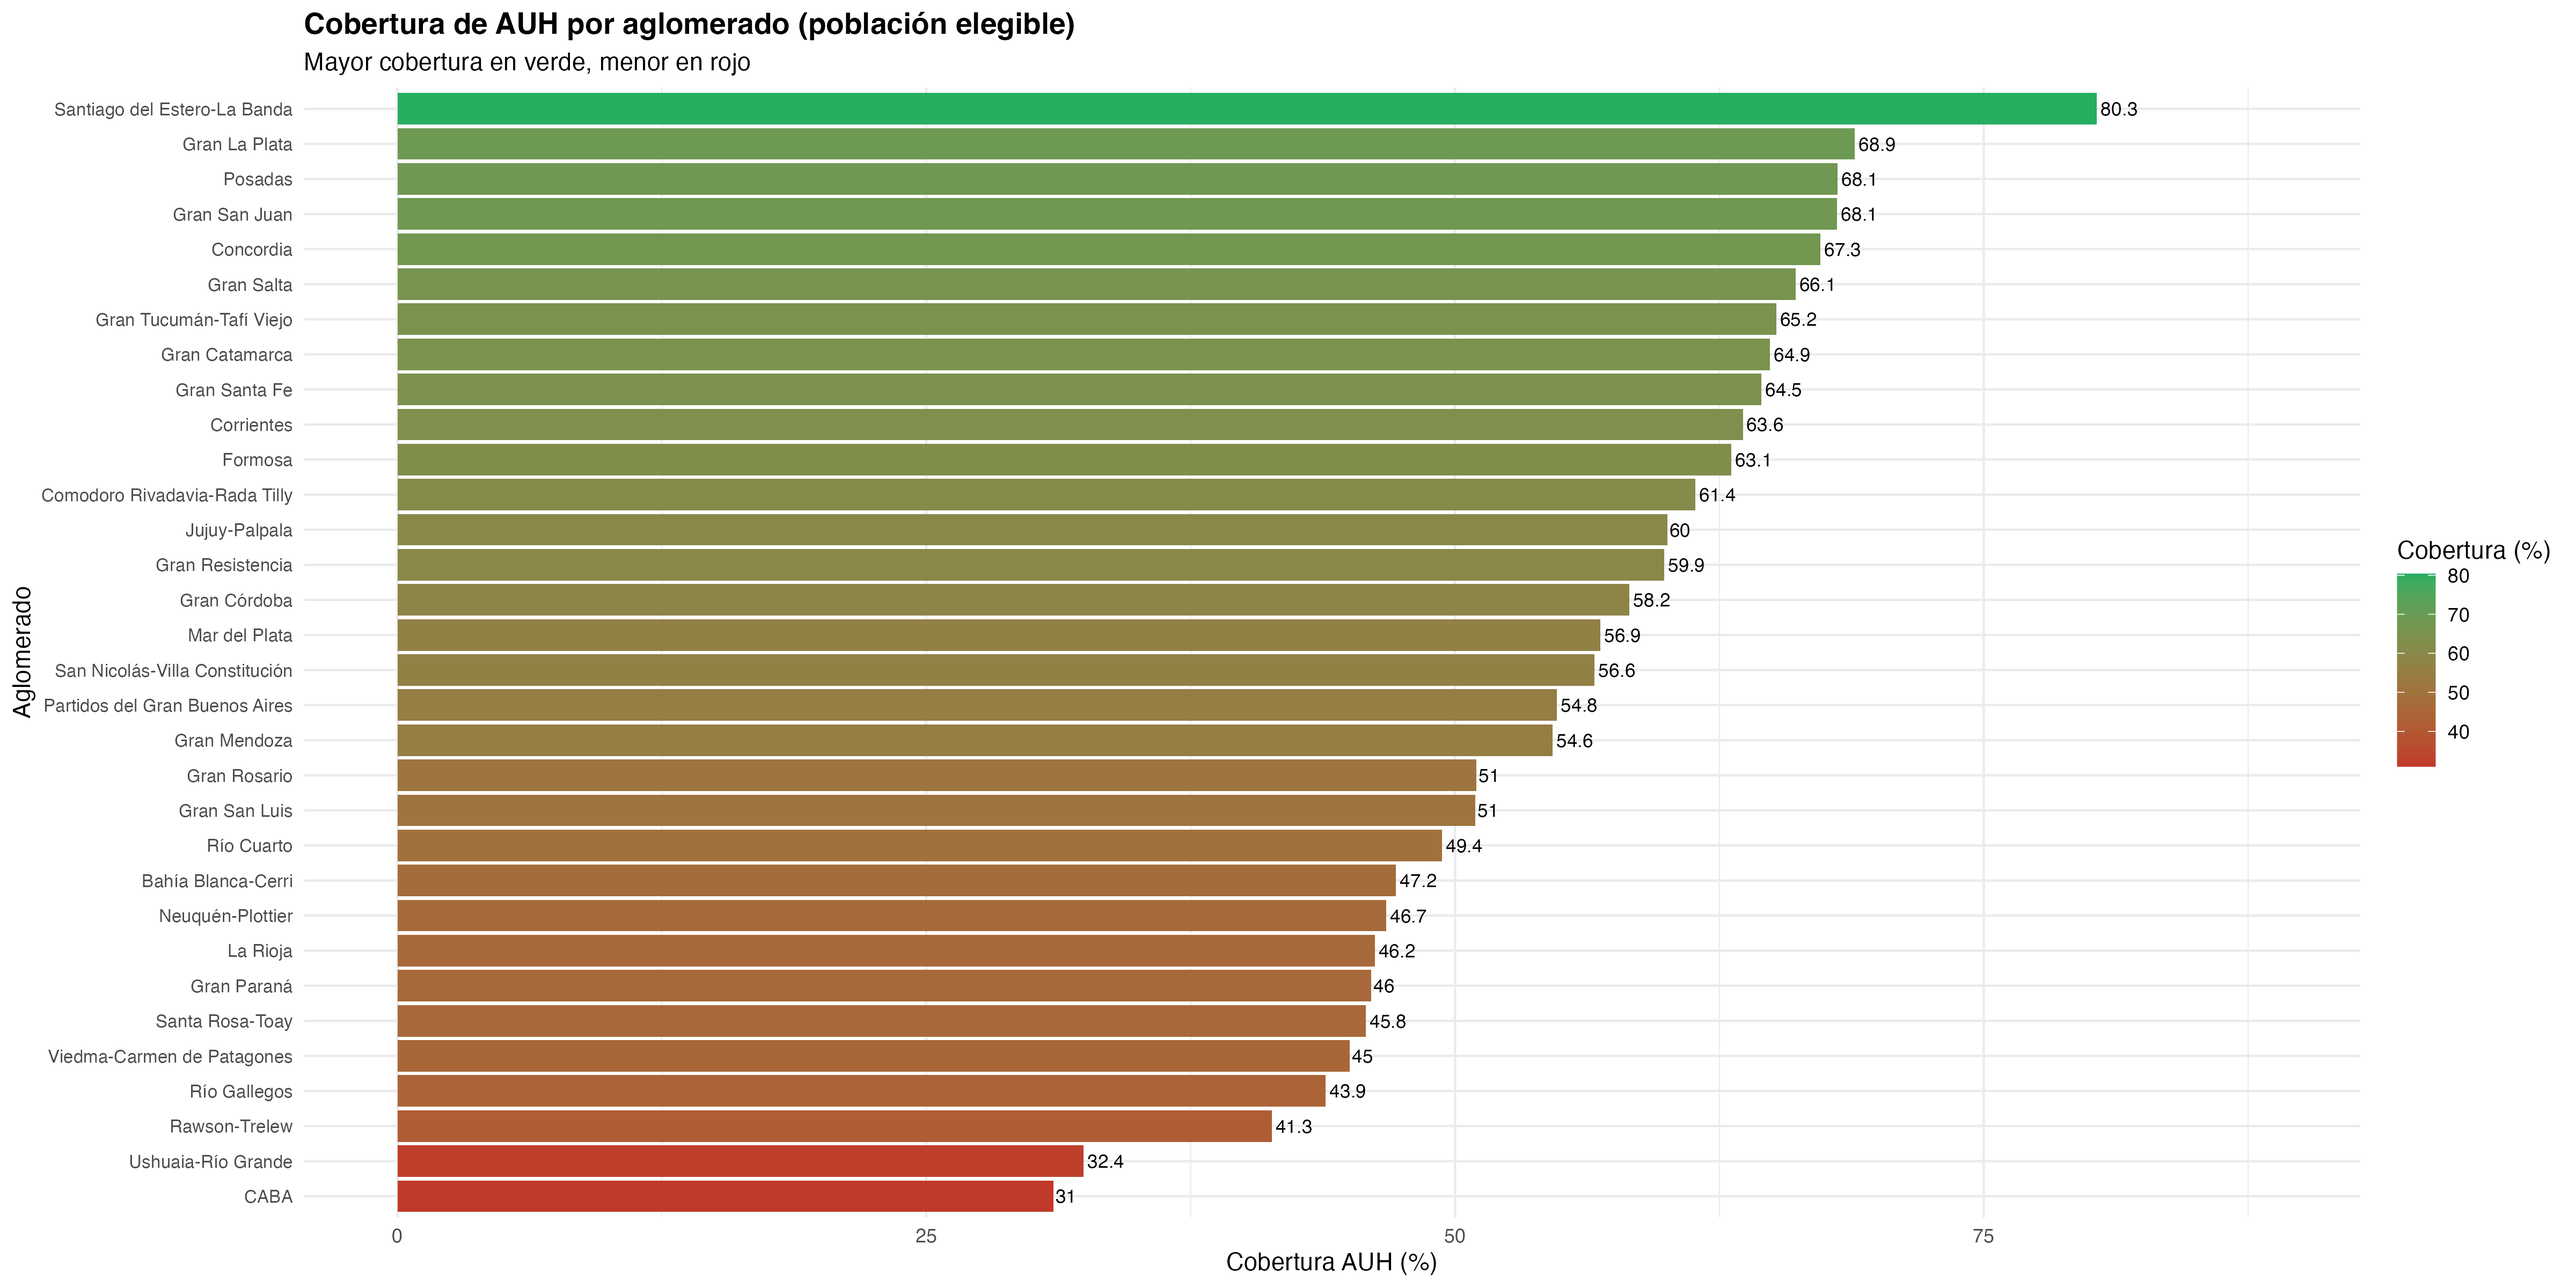
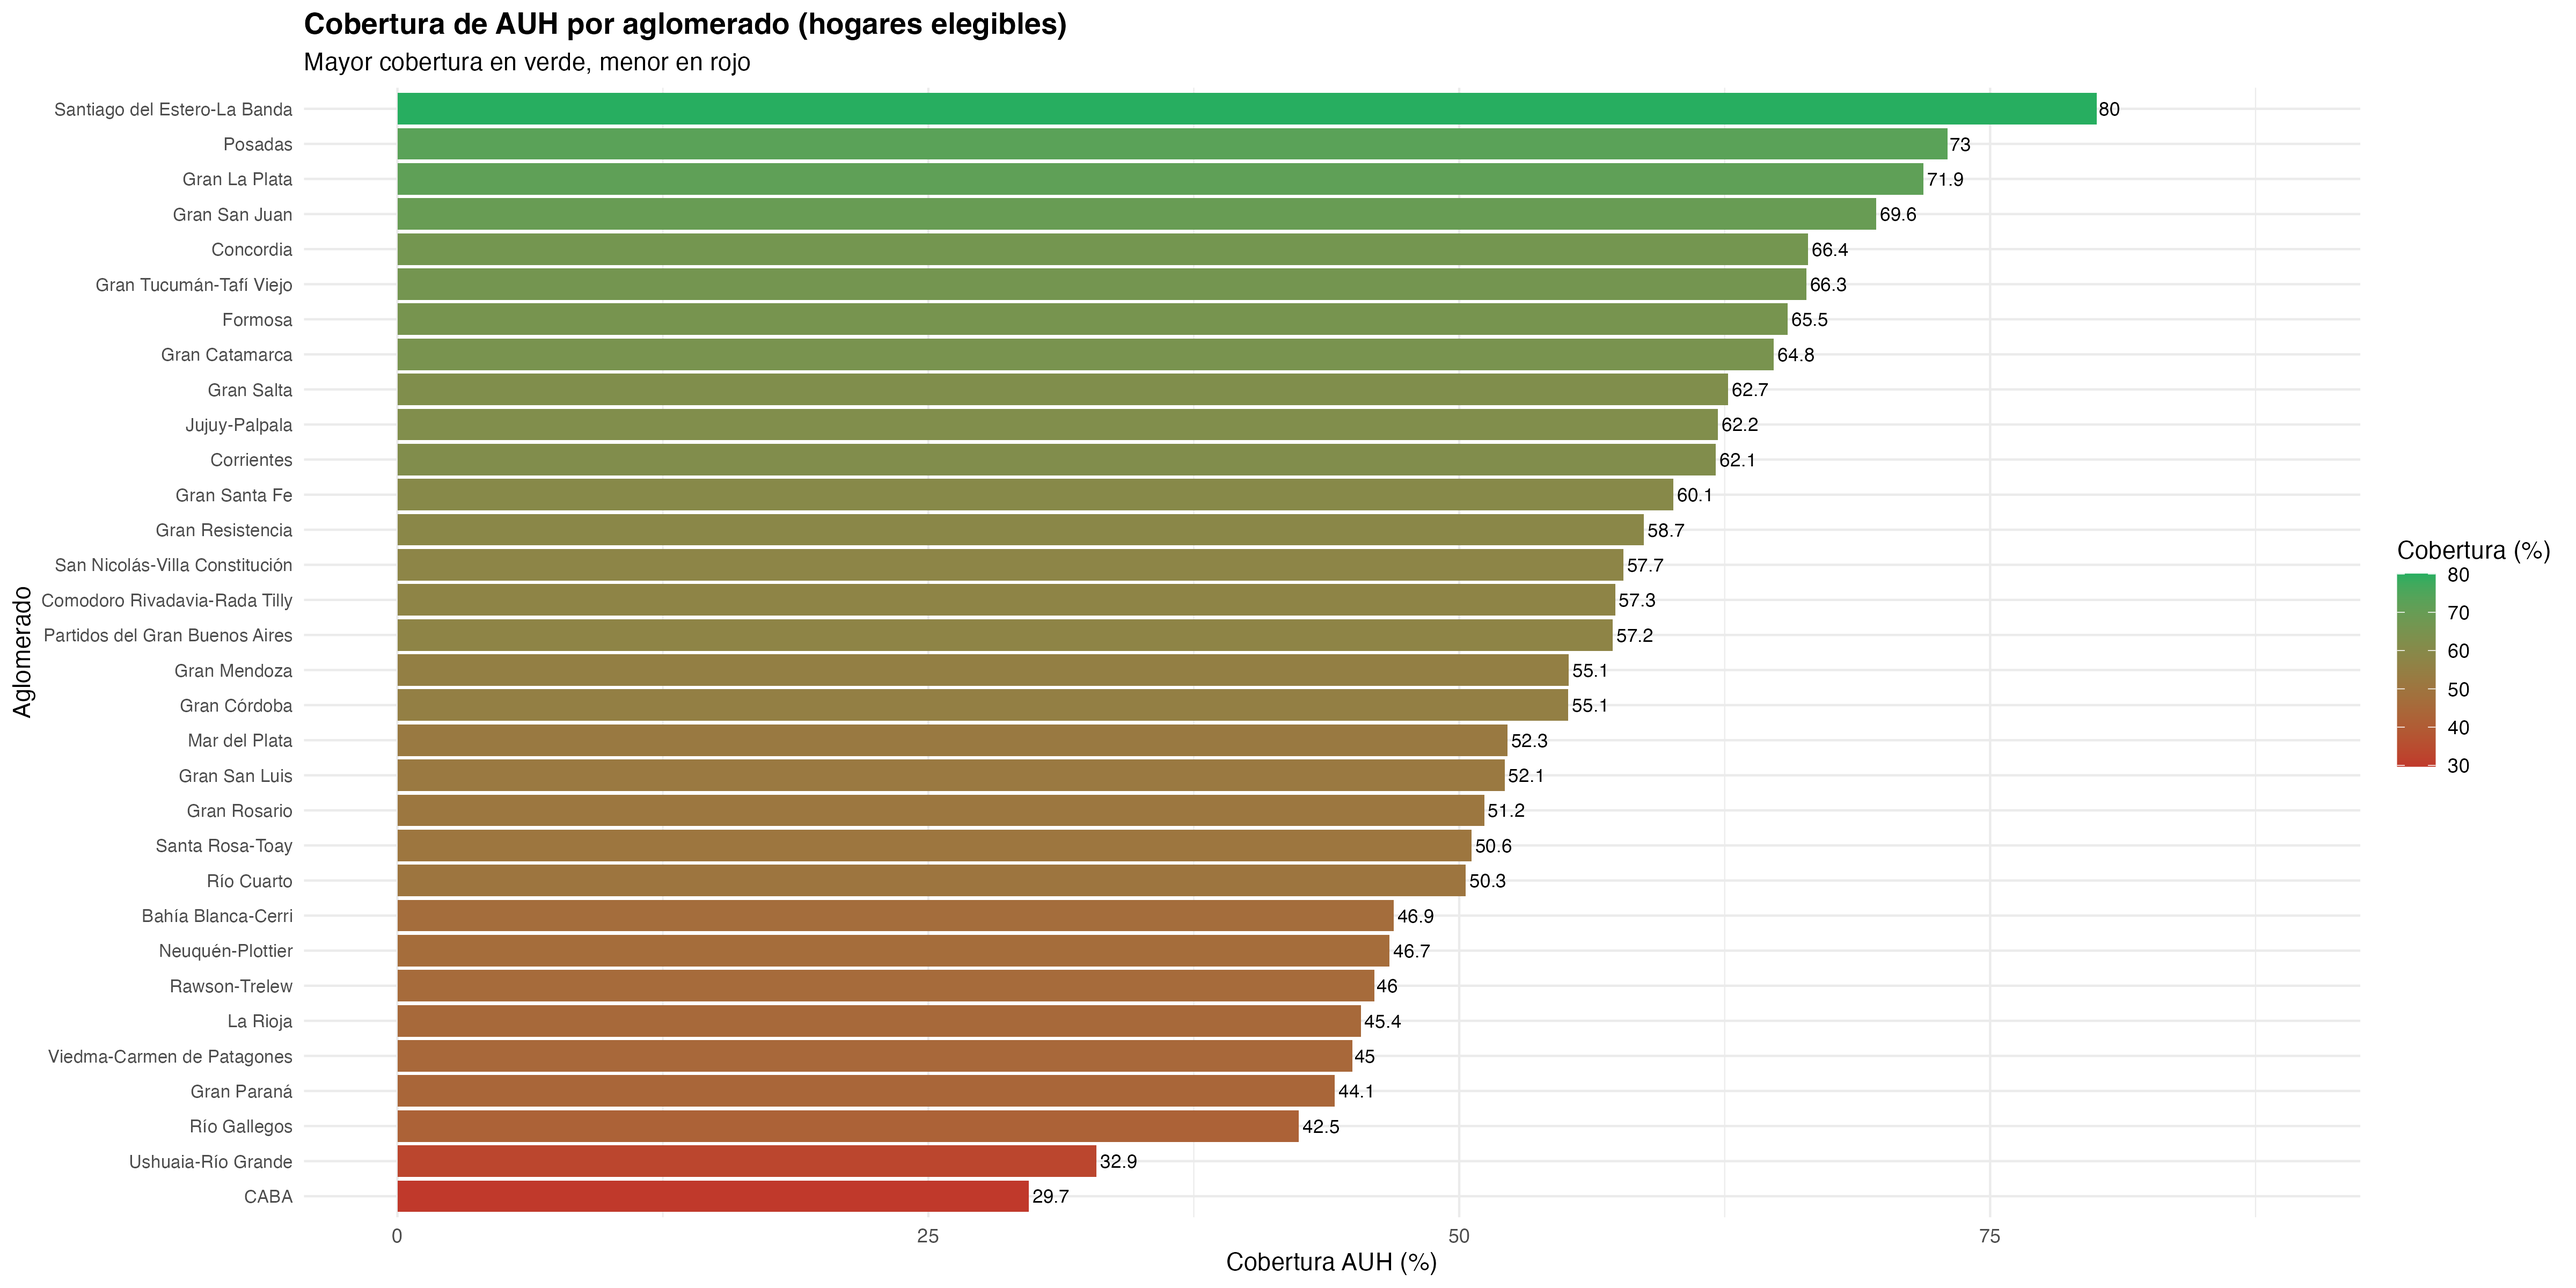
Últimos cambios

diff --git a/tabla_logit.html b/tabla_logit.html
@@ -1,0 +1,133 @@
+
+<table style="text-align:center"><caption><strong>Modelo Logit: Determinantes de la recepción de AUH</strong></caption>
+<tr><td colspan="2" style="border-bottom: 1px solid black"></td></tr><tr><td style="text-align:left"></td><td><em>Dependent variable:</em></td></tr>
+<tr><td></td><td colspan="1" style="border-bottom: 1px solid black"></td></tr>
+<tr><td style="text-align:left"></td><td>Recibe AUH</td></tr>
+<tr><td colspan="2" style="border-bottom: 1px solid black"></td></tr><tr><td style="text-align:left">Sexo del jefe</td><td>0.230<sup>***</sup></td></tr>
+<tr><td style="text-align:left"></td><td>(0.073)</td></tr>
+<tr><td style="text-align:left"></td><td></td></tr>
+<tr><td style="text-align:left">Nivel educativo del jefe</td><td>-0.340<sup>***</sup></td></tr>
+<tr><td style="text-align:left"></td><td>(0.026)</td></tr>
+<tr><td style="text-align:left"></td><td></td></tr>
+<tr><td style="text-align:left">Tamaño del hogar</td><td>-0.136<sup>***</sup></td></tr>
+<tr><td style="text-align:left"></td><td>(0.035)</td></tr>
+<tr><td style="text-align:left"></td><td></td></tr>
+<tr><td style="text-align:left">Cantidad de menores</td><td>0.649<sup>***</sup></td></tr>
+<tr><td style="text-align:left"></td><td>(0.048)</td></tr>
+<tr><td style="text-align:left"></td><td></td></tr>
+<tr><td style="text-align:left">Hogar monoparental</td><td>-0.234<sup>***</sup></td></tr>
+<tr><td style="text-align:left"></td><td>(0.081)</td></tr>
+<tr><td style="text-align:left"></td><td></td></tr>
+<tr><td style="text-align:left">Ingreso per cápita familiar</td><td>-0.00000<sup>***</sup></td></tr>
+<tr><td style="text-align:left"></td><td>(0.00000)</td></tr>
+<tr><td style="text-align:left"></td><td></td></tr>
+<tr><td style="text-align:left">Tenencia de la vivienda</td><td>0.060<sup>***</sup></td></tr>
+<tr><td style="text-align:left"></td><td>(0.017)</td></tr>
+<tr><td style="text-align:left"></td><td></td></tr>
+<tr><td style="text-align:left">Aglomerado: CABA</td><td>-0.313</td></tr>
+<tr><td style="text-align:left"></td><td>(0.235)</td></tr>
+<tr><td style="text-align:left"></td><td></td></tr>
+<tr><td style="text-align:left">Aglomerado: Comodoro Rivadavia-Rada Tilly</td><td>-0.864<sup>***</sup></td></tr>
+<tr><td style="text-align:left"></td><td>(0.255)</td></tr>
+<tr><td style="text-align:left"></td><td></td></tr>
+<tr><td style="text-align:left">Aglomerado: Concordia</td><td>0.186</td></tr>
+<tr><td style="text-align:left"></td><td>(0.257)</td></tr>
+<tr><td style="text-align:left"></td><td></td></tr>
+<tr><td style="text-align:left">Aglomerado: Corrientes</td><td>0.334<sup>**</sup></td></tr>
+<tr><td style="text-align:left"></td><td>(0.162)</td></tr>
+<tr><td style="text-align:left"></td><td></td></tr>
+<tr><td style="text-align:left">Aglomerado: Formosa</td><td>0.446<sup>**</sup></td></tr>
+<tr><td style="text-align:left"></td><td>(0.205)</td></tr>
+<tr><td style="text-align:left"></td><td></td></tr>
+<tr><td style="text-align:left">Aglomerado: Gran Catamarca</td><td>0.347<sup>*</sup></td></tr>
+<tr><td style="text-align:left"></td><td>(0.210)</td></tr>
+<tr><td style="text-align:left"></td><td></td></tr>
+<tr><td style="text-align:left">Aglomerado: Gran Córdoba</td><td>0.401<sup>**</sup></td></tr>
+<tr><td style="text-align:left"></td><td>(0.186)</td></tr>
+<tr><td style="text-align:left"></td><td></td></tr>
+<tr><td style="text-align:left">Aglomerado: Gran La Plata</td><td>0.014</td></tr>
+<tr><td style="text-align:left"></td><td>(0.151)</td></tr>
+<tr><td style="text-align:left"></td><td></td></tr>
+<tr><td style="text-align:left">Aglomerado: Gran Mendoza</td><td>0.596<sup>***</sup></td></tr>
+<tr><td style="text-align:left"></td><td>(0.218)</td></tr>
+<tr><td style="text-align:left"></td><td></td></tr>
+<tr><td style="text-align:left">Aglomerado: Gran Paraná</td><td>-0.017</td></tr>
+<tr><td style="text-align:left"></td><td>(0.154)</td></tr>
+<tr><td style="text-align:left"></td><td></td></tr>
+<tr><td style="text-align:left">Aglomerado: Gran Resistencia</td><td>-0.456<sup>**</sup></td></tr>
+<tr><td style="text-align:left"></td><td>(0.196)</td></tr>
+<tr><td style="text-align:left"></td><td></td></tr>
+<tr><td style="text-align:left">Aglomerado: Gran Rosario</td><td>0.021</td></tr>
+<tr><td style="text-align:left"></td><td>(0.188)</td></tr>
+<tr><td style="text-align:left"></td><td></td></tr>
+<tr><td style="text-align:left">Aglomerado: Gran Salta</td><td>-0.174</td></tr>
+<tr><td style="text-align:left"></td><td>(0.163)</td></tr>
+<tr><td style="text-align:left"></td><td></td></tr>
+<tr><td style="text-align:left">Aglomerado: Gran San Juan</td><td>0.473<sup>***</sup></td></tr>
+<tr><td style="text-align:left"></td><td>(0.174)</td></tr>
+<tr><td style="text-align:left"></td><td></td></tr>
+<tr><td style="text-align:left">Aglomerado: Gran San Luis</td><td>0.619<sup>***</sup></td></tr>
+<tr><td style="text-align:left"></td><td>(0.180)</td></tr>
+<tr><td style="text-align:left"></td><td></td></tr>
+<tr><td style="text-align:left">Aglomerado: Gran Santa Fe</td><td>-0.269</td></tr>
+<tr><td style="text-align:left"></td><td>(0.215)</td></tr>
+<tr><td style="text-align:left"></td><td></td></tr>
+<tr><td style="text-align:left">Aglomerado: Gran Tucumán-Tafí Viejo</td><td>-0.037</td></tr>
+<tr><td style="text-align:left"></td><td>(0.202)</td></tr>
+<tr><td style="text-align:left"></td><td></td></tr>
+<tr><td style="text-align:left">Aglomerado: Jujuy-Palpala</td><td>0.412<sup>***</sup></td></tr>
+<tr><td style="text-align:left"></td><td>(0.149)</td></tr>
+<tr><td style="text-align:left"></td><td></td></tr>
+<tr><td style="text-align:left">Aglomerado: La Rioja</td><td>0.252</td></tr>
+<tr><td style="text-align:left"></td><td>(0.178)</td></tr>
+<tr><td style="text-align:left"></td><td></td></tr>
+<tr><td style="text-align:left">Aglomerado: Mar del Plata</td><td>-0.556<sup>***</sup></td></tr>
+<tr><td style="text-align:left"></td><td>(0.197)</td></tr>
+<tr><td style="text-align:left"></td><td></td></tr>
+<tr><td style="text-align:left">Aglomerado: Neuquén-Plottier</td><td>-0.400</td></tr>
+<tr><td style="text-align:left"></td><td>(0.248)</td></tr>
+<tr><td style="text-align:left"></td><td></td></tr>
+<tr><td style="text-align:left">Aglomerado: Posadas</td><td>-0.484<sup>*</sup></td></tr>
+<tr><td style="text-align:left"></td><td>(0.287)</td></tr>
+<tr><td style="text-align:left"></td><td></td></tr>
+<tr><td style="text-align:left">Aglomerado: Rawson-Trelew</td><td>0.526<sup>***</sup></td></tr>
+<tr><td style="text-align:left"></td><td>(0.196)</td></tr>
+<tr><td style="text-align:left"></td><td></td></tr>
+<tr><td style="text-align:left">Aglomerado: Río Cuarto</td><td>-0.335</td></tr>
+<tr><td style="text-align:left"></td><td>(0.233)</td></tr>
+<tr><td style="text-align:left"></td><td></td></tr>
+<tr><td style="text-align:left">Aglomerado: Río Gallegos</td><td>-0.160</td></tr>
+<tr><td style="text-align:left"></td><td>(0.210)</td></tr>
+<tr><td style="text-align:left"></td><td></td></tr>
+<tr><td style="text-align:left">Aglomerado: San Nicolás-Villa Constitución</td><td>-0.389</td></tr>
+<tr><td style="text-align:left"></td><td>(0.294)</td></tr>
+<tr><td style="text-align:left"></td><td></td></tr>
+<tr><td style="text-align:left">Aglomerado: Santa Rosa-Toay</td><td>0.014</td></tr>
+<tr><td style="text-align:left"></td><td>(0.190)</td></tr>
+<tr><td style="text-align:left"></td><td></td></tr>
+<tr><td style="text-align:left">Aglomerado: Santiago del Estero-La Banda</td><td>-0.231</td></tr>
+<tr><td style="text-align:left"></td><td>(0.215)</td></tr>
+<tr><td style="text-align:left"></td><td></td></tr>
+<tr><td style="text-align:left">Aglomerado: Ushuaia-Río Grande</td><td>0.752<sup>***</sup></td></tr>
+<tr><td style="text-align:left"></td><td>(0.206)</td></tr>
+<tr><td style="text-align:left"></td><td></td></tr>
+<tr><td style="text-align:left">Aglomerado: Viedma-Carmen de Patagones</td><td>-0.760<sup>***</sup></td></tr>
+<tr><td style="text-align:left"></td><td>(0.259)</td></tr>
+<tr><td style="text-align:left"></td><td></td></tr>
+<tr><td style="text-align:left">Trimestre 2</td><td>-0.416<sup>*</sup></td></tr>
+<tr><td style="text-align:left"></td><td>(0.252)</td></tr>
+<tr><td style="text-align:left"></td><td></td></tr>
+<tr><td style="text-align:left">Trimestre 3</td><td>-0.066</td></tr>
+<tr><td style="text-align:left"></td><td>(0.073)</td></tr>
+<tr><td style="text-align:left"></td><td></td></tr>
+<tr><td style="text-align:left">trimestre_base2025_T3</td><td>-0.031</td></tr>
+<tr><td style="text-align:left"></td><td>(0.074)</td></tr>
+<tr><td style="text-align:left"></td><td></td></tr>
+<tr><td style="text-align:left">Constant</td><td>0.857<sup>***</sup></td></tr>
+<tr><td style="text-align:left"></td><td>(0.184)</td></tr>
+<tr><td style="text-align:left"></td><td></td></tr>
+<tr><td colspan="2" style="border-bottom: 1px solid black"></td></tr><tr><td style="text-align:left">Observations</td><td>5,307</td></tr>
+<tr><td style="text-align:left">Akaike Inf. Crit.</td><td>6,573.389</td></tr>
+<tr><td colspan="2" style="border-bottom: 1px solid black"></td></tr><tr><td style="text-align:left"><em>Note:</em></td><td style="text-align:left"><sup>*</sup>p<0.1; <sup>**</sup>p<0.05; <sup>***</sup>p<0.01</td></tr>
+<tr><td style="text-align:left"></td><td style="text-align:left">Categorías de referencia: Partidos del Gran Buenos Aires y Trimestre 1 2025.</td></tr>
+</table>
